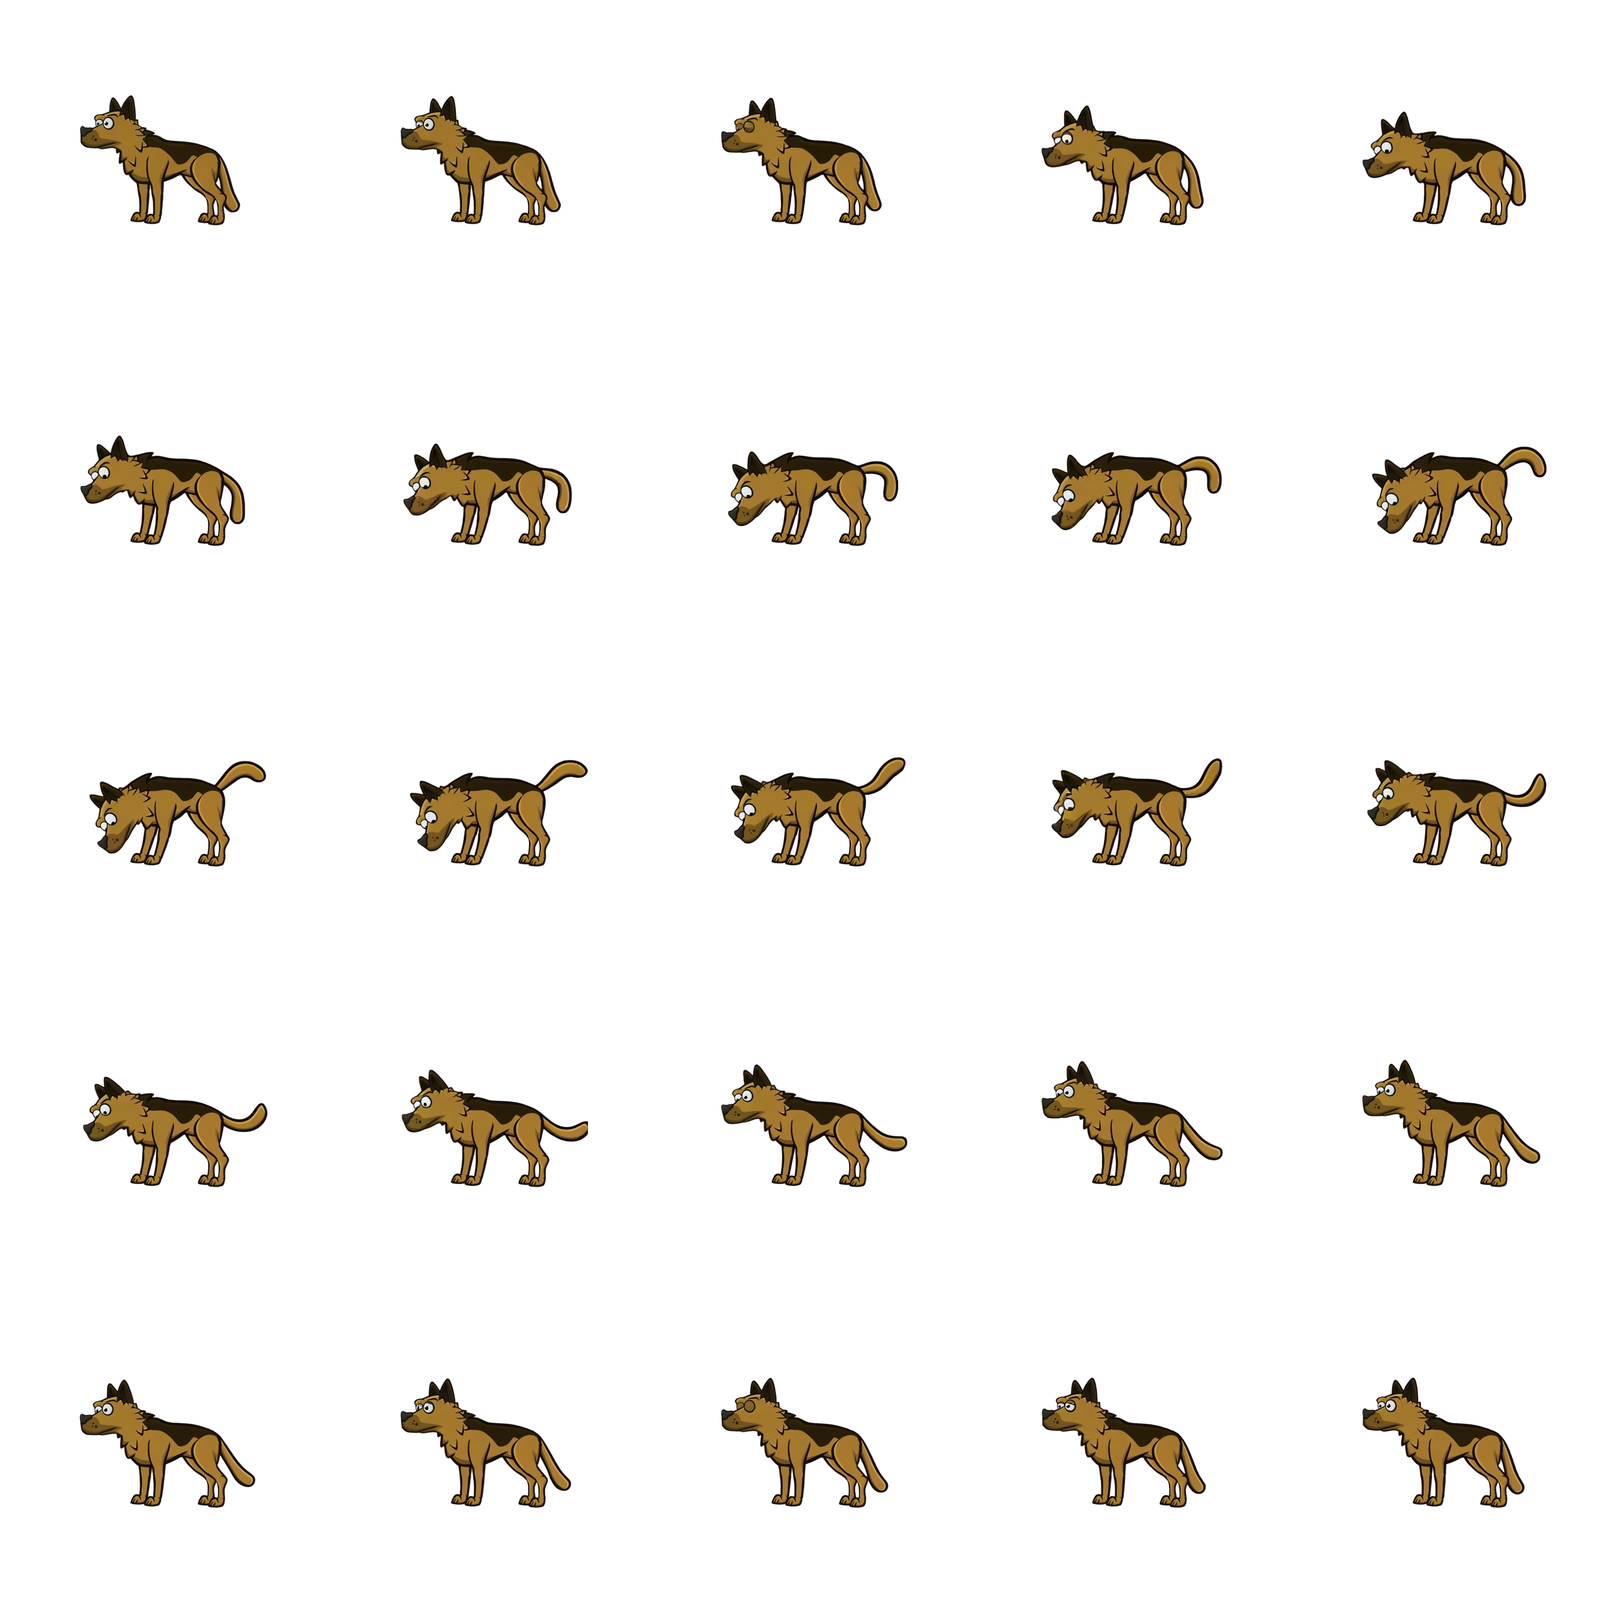
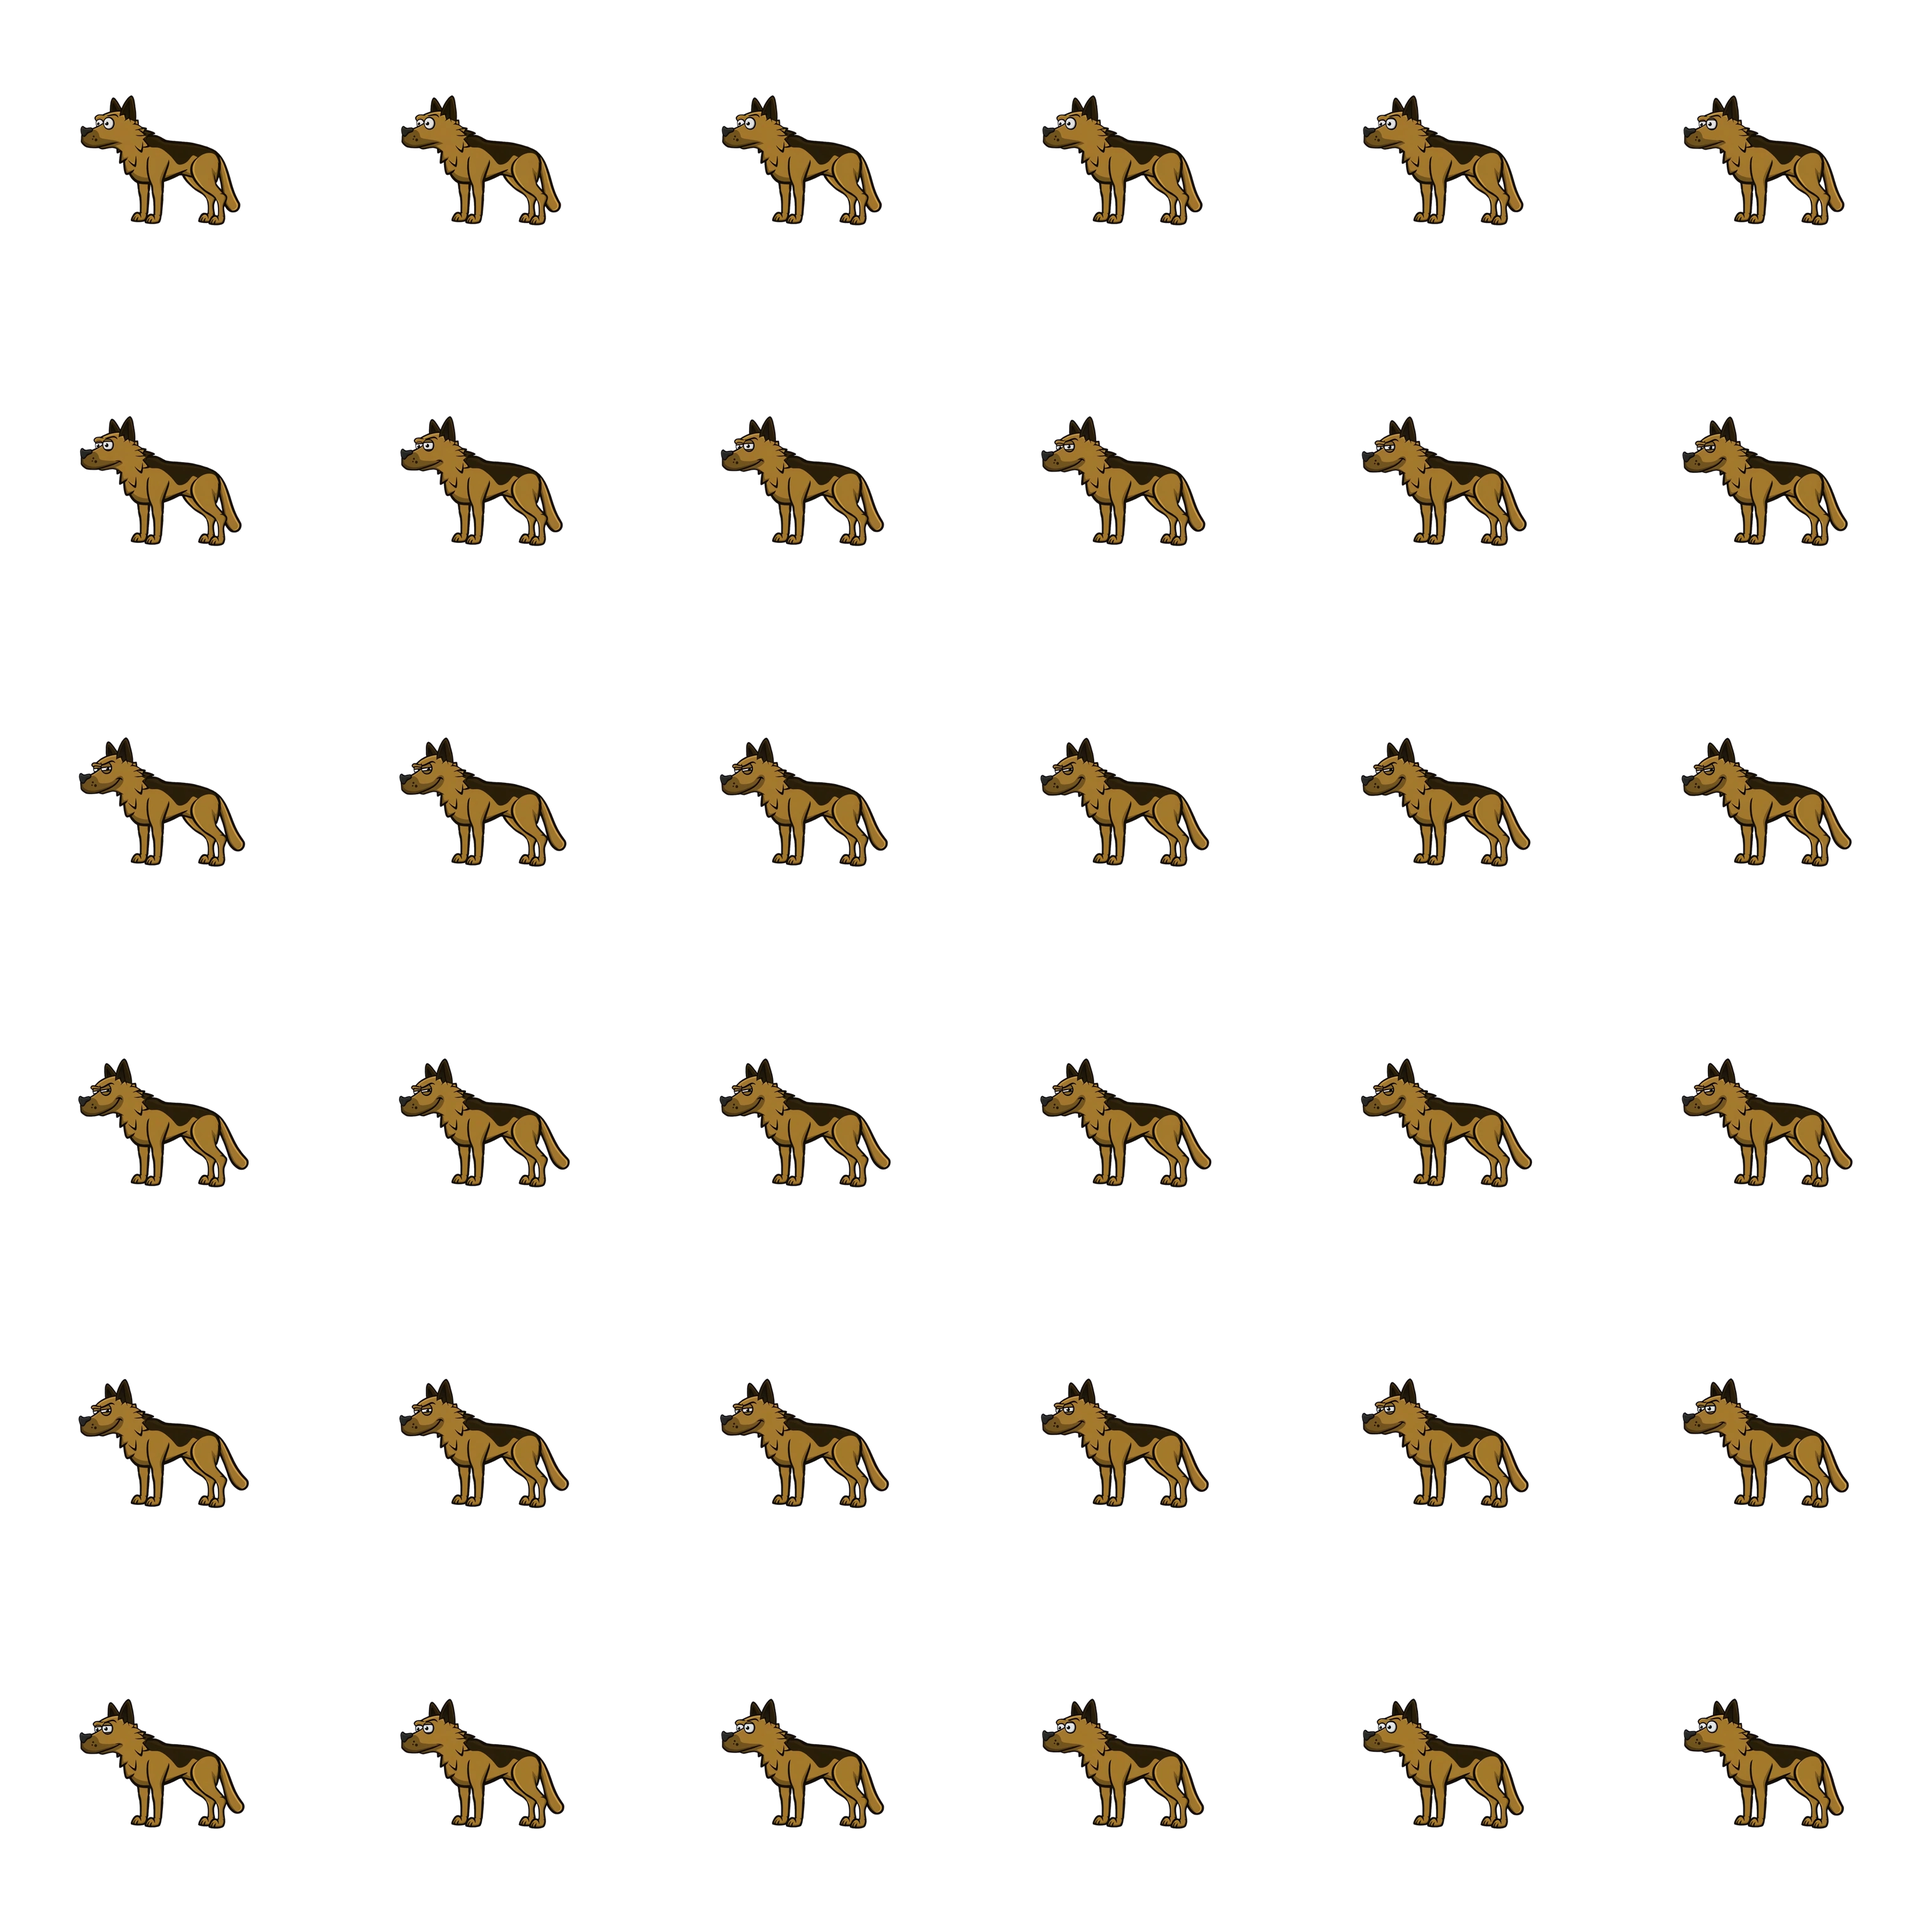
Regenerate dog sneaky on Hydra with a face-only prompt
The shipped clip craned its head and swung its tail past the reference
framing: 29px of tail overhang, and a sliced tail tip at 17px of flat
cut. It also read as neutral. The new prompt locks the head and tail
and moves only the face (sly brows, heavy half-lids, a smirk) on a
symmetric timeline. The tail still sways about 15px past the reference
frame, never near the cell edge.

The manifest now also records the prompts behind the shipped cow angry
and brown-bull doubtful clips.

diff --git a/src/phaser/animals/emotionSheets.generated.ts b/src/phaser/animals/emotionSheets.generated.ts
@@ -302,22 +302,17 @@ export const EMOTION_SHEETS: Partial<
       file: 'dog-sneaky.png',
       frameWidth: 512,
       frameHeight: 512,
-      frameCount: 25,
-      frameRate: 13,
+      frameCount: 36,
+      frameRate: 12,
       scale: 2.7212,
-      originX: 0.5392,
+      originX: 0.5099,
       originY: 0.7031,
       quality: {
-        loopPop: 0.22,
-        heightSwing: 27.4,
-        driftX: 14.5,
-        warnings: [
-          'height swing 27% (over 20%) — check it is motion, not the character changing pose',
-        ],
+        loopPop: 0.13,
+        heightSwing: 1,
+        driftX: 3,
+        warnings: [],
       },
-      reviewNotes: [
-        'height swing is a head dip, not a pose collapse — accepted, same class as donkey sneaky',
-      ],
     },
     talking: {
       file: 'dog-talking.png',
